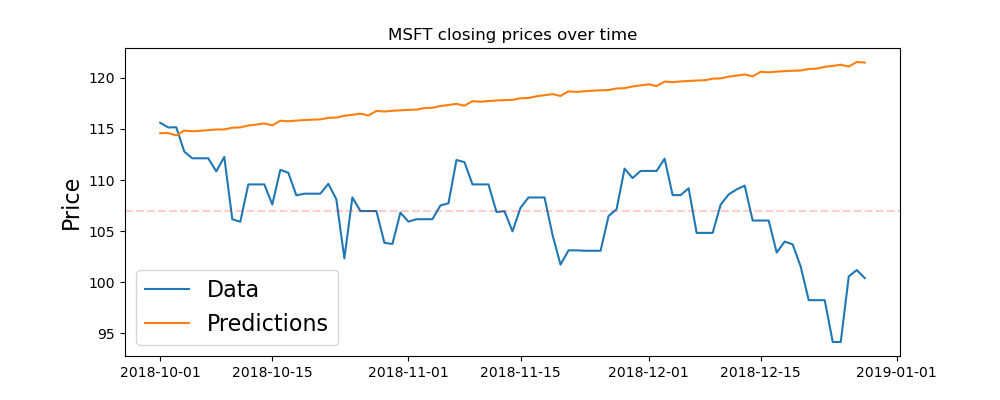
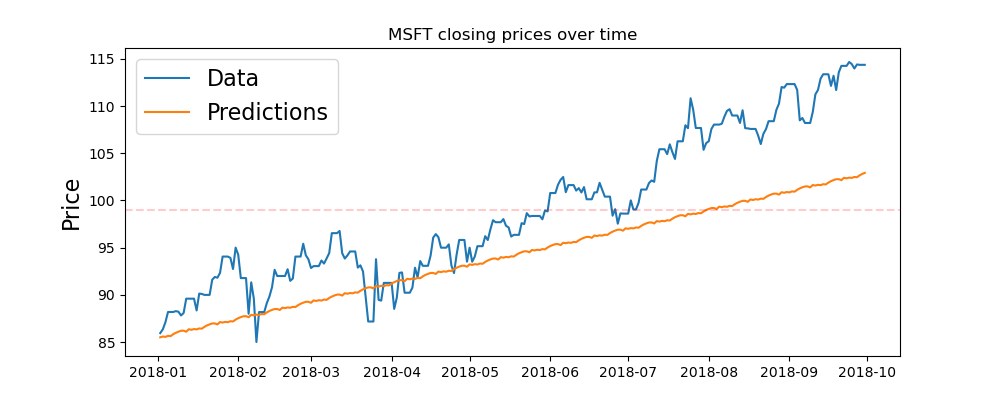
adjusted training timeframe

diff --git a/SARIMA/SARIMA_Plots.py b/SARIMA/SARIMA_Plots.py
@@ -10,7 +10,7 @@ plt.ylabel('Price', fontsize = 16)
 for year in range(2017,2019):
     plt.axvline(pd.to_datetime(str(year)+'-01-01'),color='k', linestyle= '--', alpha=0.2)
 plt.axhline(MSFTdf.Close.mean(), color='r', alpha =0.2, linestyle='--')
-#plt.savefig('Closing price MSFT')
+plt.savefig('Closing price MSFT')
 
 # plotting first difference data
 plt.figure(figsize=(10,4))
@@ -20,17 +20,17 @@ plt.ylabel('Price', fontsize = 16)
 for year in range(2017,2019):
     plt.axvline(pd.to_datetime(str(year)+'-01-01'),color='k', linestyle= '--', alpha=0.2)
 plt.axhline(MSFTdf.IntChange.mean(), color='r', alpha =0.2, linestyle='--')
-#plt.savefig('First Differences MSFT')
+plt.savefig('First Differences MSFT')
 
 # plotting SARIMA residuals
 plt.figure(figsize=(10,4))
 plt.plot(sarima_residuals)
-plt.title('Residuals from ARIMA Model', fontsize = 20)
+plt.title('Residuals from SARIMA Model', fontsize = 20)
 plt.ylabel('Error', fontsize=16)
 plt.axhline(sarima_residuals.mean(), color = 'r', linestyle='--', alpha = 0.2)
 for year in range(2019,2019):
     plt.axvline(pd.to_datetime(str(year) + '-01-01'), color='k', linestyle='--', alpha=0.2)
-#plt.savefig('Residuals SARIMA')
+plt.savefig('Residuals SARIMA')
 
 # plotting prediction and test data
 plt.figure(figsize=(10,4))
@@ -42,5 +42,5 @@ plt.ylabel('Price', fontsize = 16)
 for year in range(2019,2019):
     plt.axvline(pd.to_datetime(str(year)+'-01-01'),color='k', linestyle= '--', alpha=0.2)
 plt.axhline(test_data.mean(), color='r', alpha =0.2, linestyle='--')
-#plt.savefig('Predicted SARIMA')
+plt.savefig('Predicted SARIMA')
 plt.show()

diff --git a/Auto-Arima/Auto_ARIMA.py b/Auto-Arima/Auto_ARIMA.py
@@ -2,7 +2,7 @@ from Data_prep.Data_preparation import MSFTdf
 from pmdarima.arima import auto_arima
 
 stepwise_model = auto_arima(MSFTdf.Close, start_p=1, start_q=1,
-                           max_p=3, max_q=3, m=12,
+                           max_p=7, max_q=7, m=12,
                            start_P=0, seasonal=True,
                            d=1, D=1, trace=True,
                            error_action='ignore',

diff --git a/SARIMA/SARIMA.py b/SARIMA/SARIMA.py
@@ -6,8 +6,8 @@ from time import time
 from statsmodels.tsa.statespace.sarimax import SARIMAX
 
 # Getting Training set
-train_end = datetime(2018, 9, 30)
-test_end = datetime(2018, 12, 31)
+train_end = datetime(2018, 1, 1)
+test_end = datetime(2018, 9, 30)
 train_data = MSFTdf.Close[:train_end]
 test_data = MSFTdf.Close[train_end + timedelta(days=1):test_end]
 

diff --git a/ARIMA/ARIMA.py b/ARIMA/ARIMA.py
@@ -6,8 +6,8 @@ from time import time
 from statsmodels.tsa.arima_model import ARIMA
 
 # Getting Training set
-train_end = datetime(2018,9,30)
-test_end = datetime(2018,12,31)
+train_end = datetime(2018,1,1)
+test_end = datetime(2018,9,30)
 train_data = MSFTdf.Close[:train_end]
 test_data = MSFTdf.Close[train_end + timedelta(days=1):test_end]
 
